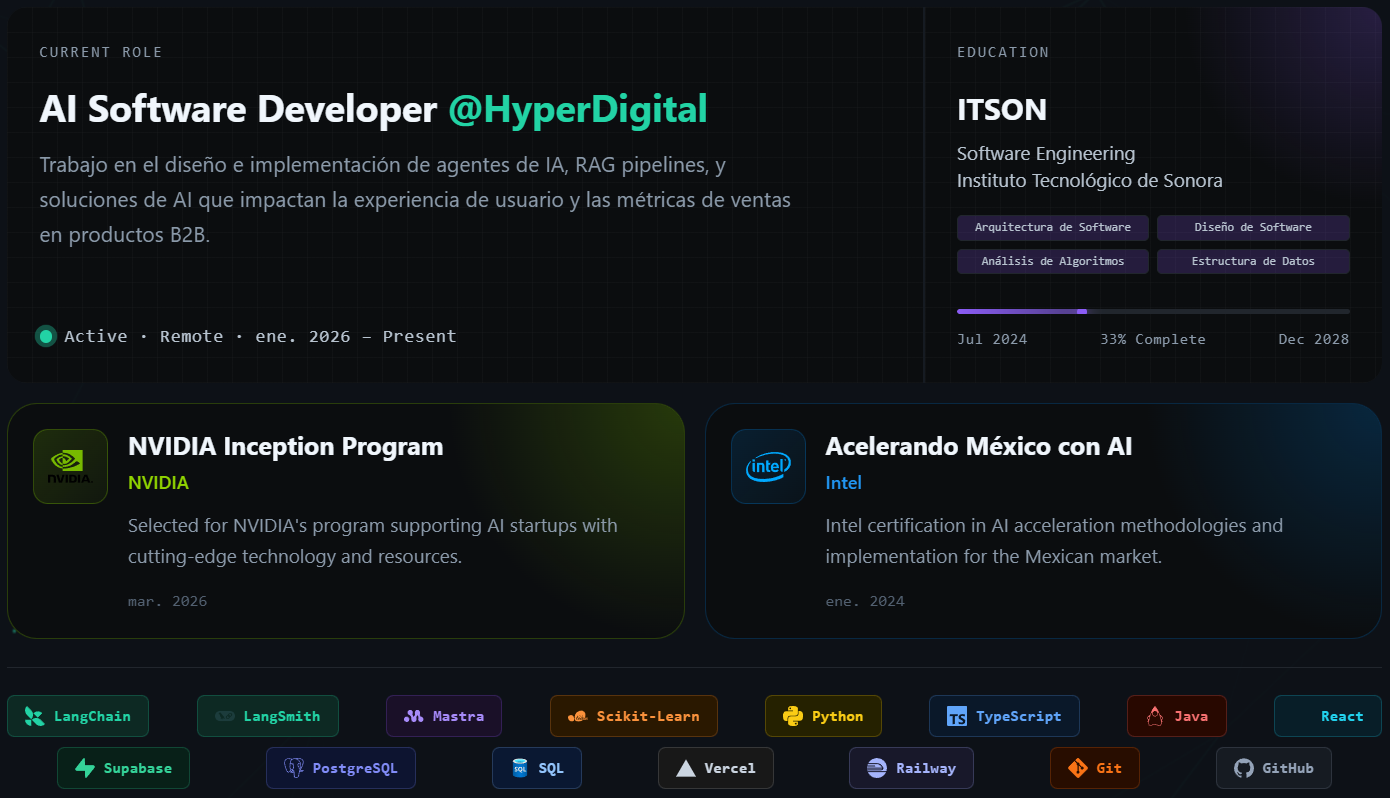
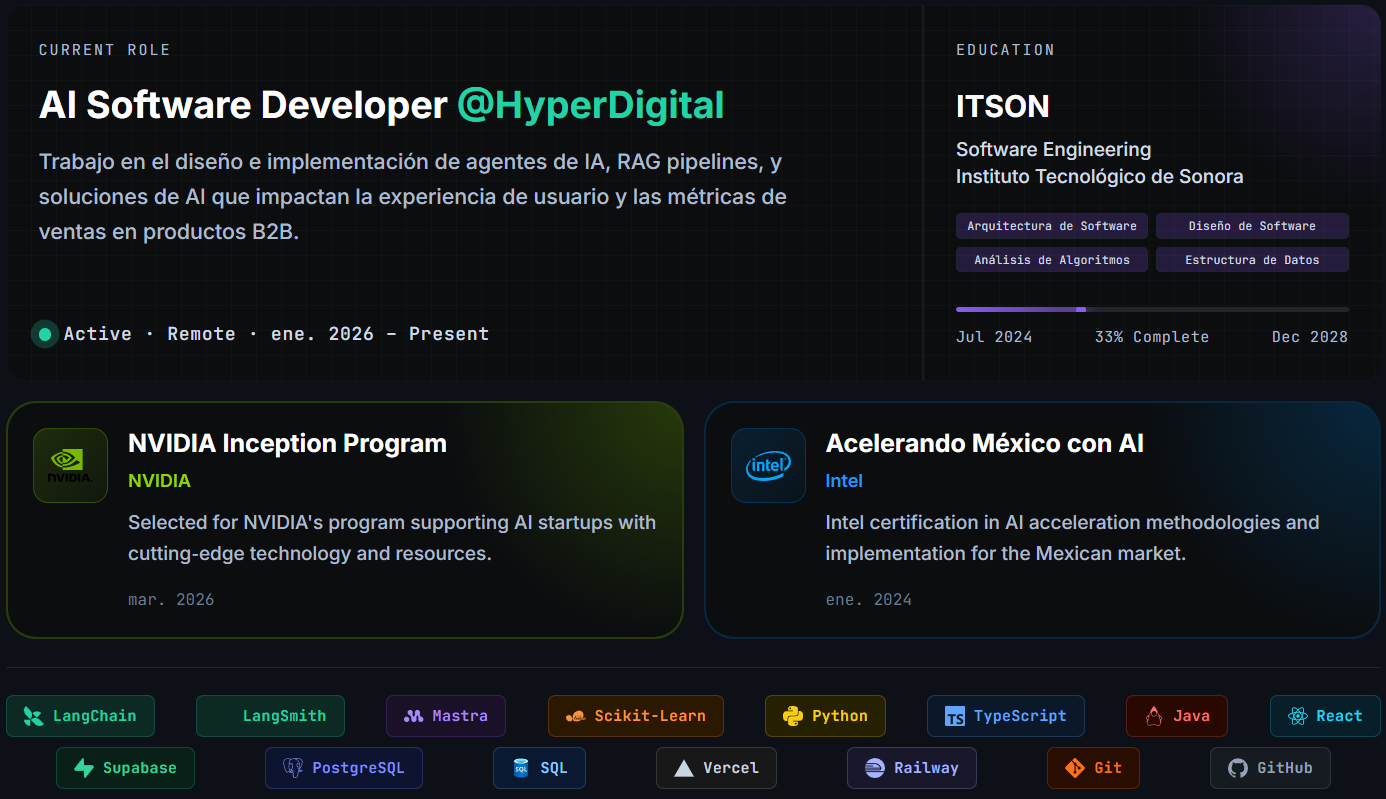
update: font

diff --git a/experience-profile.html b/experience-profile.html
@@ -22,10 +22,10 @@
       --border-medium: #161b22;
       --border-strong: #30363d;
 
-      --text: #f0f6fc;
-      --text-secondary: #b8c4d0;
-      --text-muted: #8b9aaa;
-      --text-disabled: #526070;
+      --text: #ffffff;
+      --text-secondary: #d0dce8;
+      --text-muted: #adbccc;
+      --text-disabled: #6a7c8c;
 
       --accent: #22d3a5;
       --accent-dim: rgba(34, 211, 165, 0.12);
@@ -68,14 +68,6 @@
       margin: 0 auto;
       position: relative;
       z-index: 10;
-    }
-
-    /* ─── Neural bg ─── */
-    #neural {
-      position: fixed;
-      inset: 0;
-      z-index: 0;
-      pointer-events: none;
     }
 
     /* ─── Section label ─── */
@@ -191,6 +183,7 @@
 
     .card-sub {
       font-size: 1.0625rem;
+      font-weight: 500;
       color: var(--text-muted);
       margin-top: 0.875rem;
       line-height: 1.65;
@@ -236,6 +229,7 @@
     .pulse-label {
       font-family: 'JetBrains Mono', monospace;
       font-size: 0.9rem;
+      font-weight: 500;
       color: var(--text-secondary);
       letter-spacing: 0.04em;
     }
@@ -249,6 +243,7 @@
 
     .edu-deg {
       font-size: 0.95rem;
+      font-weight: 500;
       color: var(--text-secondary);
       margin-top: 0.375rem;
       line-height: 1.4;
@@ -355,12 +350,12 @@
 
     .ach-nvidia {
       background: var(--bg-card);
-      border: 1px solid rgba(118, 185, 0, 0.28);
+      border: 2px solid rgba(118, 185, 0, 0.28);
     }
 
     .ach-intel {
       background: var(--bg-card);
-      border: 1px solid rgba(0, 113, 197, 0.28);
+      border: 2px solid rgba(0, 113, 197, 0.28);
     }
 
     .ach-row {
@@ -426,6 +421,7 @@
 
     .ach-desc {
       font-size: 0.95rem;
+      font-weight: 500;
       color: var(--text-muted);
       line-height: 1.6;
     }
@@ -815,8 +811,6 @@
 
 <body>
 
-  <canvas id="neural" aria-hidden="true"></canvas>
-
   <div class="max-w">
 
     <!-- ══════════════════════════ EXPERIENCE ══════════════════════════ -->
@@ -936,69 +930,6 @@
 
   </div>
 
-  <!-- ───────── Neural background (teal particles) ───────── -->
-  <script>
-    (function () {
-      const canvas = document.getElementById('neural');
-      const ctx = canvas.getContext('2d');
-      const particles = [];
-      const COLOR = [34, 211, 165];
-      const COUNT = 40;
-
-      function resize() {
-        canvas.width = window.innerWidth;
-        canvas.height = document.body.scrollHeight;
-      }
-      resize();
-      window.addEventListener('resize', resize);
-
-      for (let i = 0; i < COUNT; i++) {
-        particles.push({
-          x: Math.random() * canvas.width,
-          y: Math.random() * canvas.height,
-          vx: (Math.random() - 0.5) * 0.25,
-          vy: (Math.random() - 0.5) * 0.25,
-          size: Math.random() * 1.5 + 0.8,
-        });
-      }
-
-      function animate() {
-        ctx.clearRect(0, 0, canvas.width, canvas.height);
-
-        for (let i = 0; i < particles.length; i++) {
-          const p = particles[i];
-          p.x += p.vx; p.y += p.vy;
-          if (p.x < 0) p.x = canvas.width; if (p.x > canvas.width) p.x = 0;
-          if (p.y < 0) p.y = canvas.height; if (p.y > canvas.height) p.y = 0;
-
-          // connections
-          for (let j = i + 1; j < particles.length; j++) {
-            const q = particles[j];
-            const dx = p.x - q.x, dy = p.y - q.y;
-            const d = Math.sqrt(dx * dx + dy * dy);
-            if (d < 180) {
-              const op = 0.15 * (1 - d / 180);
-              ctx.beginPath();
-              ctx.moveTo(p.x, p.y);
-              ctx.lineTo(q.x, q.y);
-              ctx.strokeStyle = `rgba(${COLOR[0]},${COLOR[1]},${COLOR[2]},${op})`;
-              ctx.lineWidth = 0.5;
-              ctx.stroke();
-            }
-          }
-
-          // particle
-          ctx.beginPath();
-          ctx.arc(p.x, p.y, p.size, 0, Math.PI * 2);
-          ctx.fillStyle = `rgba(${COLOR[0]},${COLOR[1]},${COLOR[2]},0.4)`;
-          ctx.fill();
-        }
-
-        requestAnimationFrame(animate);
-      }
-      animate();
-    })();
-  </script>
 
 </body>
 
